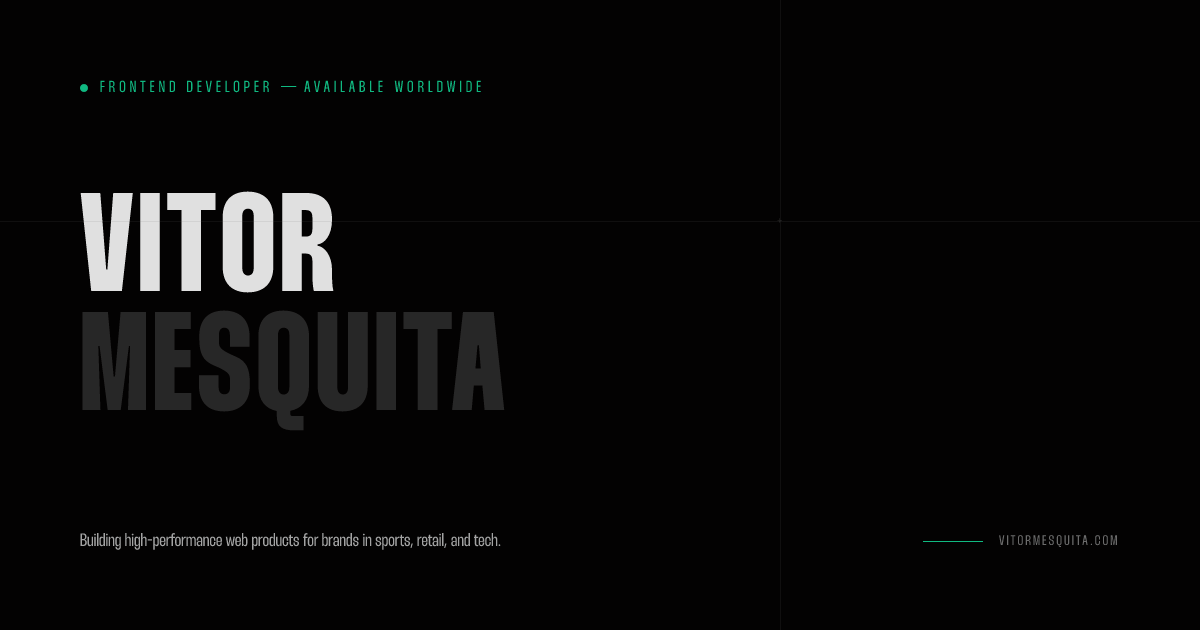
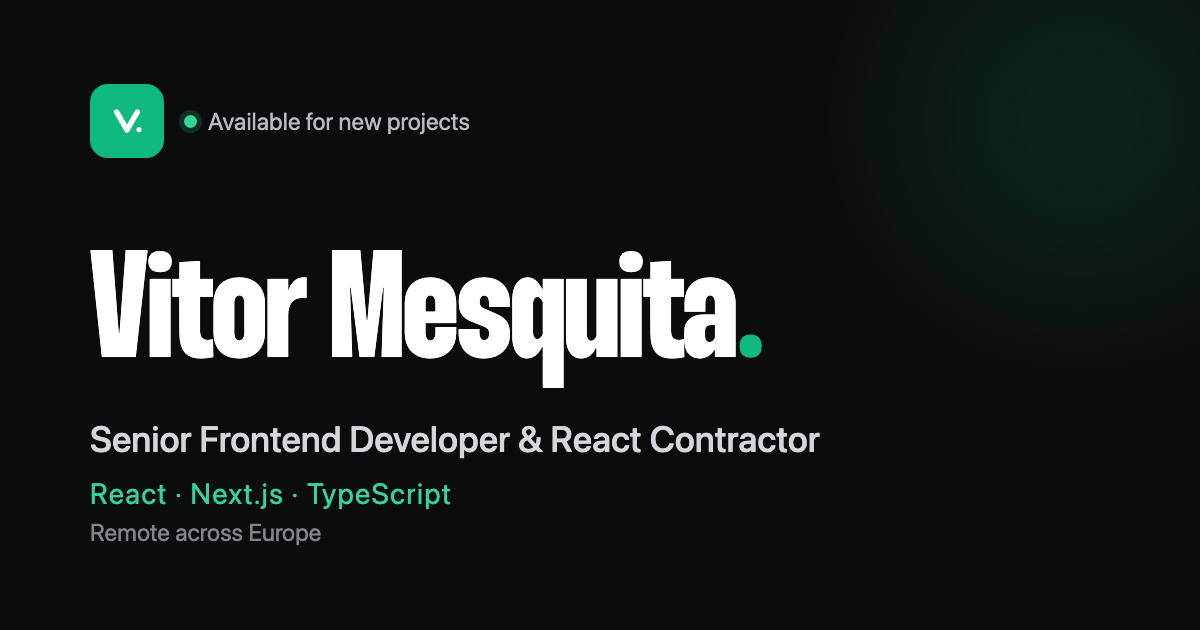
SEO/AEO enrichment + FAQ accordion polish
- FAQ: exclusive accordion (one open at a time); answers stay in the DOM for SEO/AI
- Richer JSON-LD: Person (image, description, email, occupation),
  Organization (description, email, founder); graph cross-linked
- Add public/profile.png headshot for Person.image
- New on-brand OG image (replaces old design)
- Skip-to-content link for accessibility
- Remove all Twitter/X references

diff --git a/src/app/layout.tsx b/src/app/layout.tsx
@@ -90,14 +90,6 @@ export const metadata: Metadata = {
       },
     ],
   },
-  twitter: {
-    card: 'summary_large_image',
-    title: 'Freelance Senior Frontend Developer | React • Next.js • TypeScript',
-    description:
-      'Frontend Contractor helping European product teams build high-performance React, Next.js, and TypeScript products.',
-    images: ['/og-image.png'],
-    creator: '@vitorsm19',
-  },
   alternates: {
     canonical: SITE_URL,
   },
@@ -126,6 +118,12 @@ j=d.createElement(s),dl=l!='dataLayer'?'&l='+l:'';j.async=true;j.src=
         <link rel="apple-touch-icon" href="/apple-touch-icon.png" />
       </head>
       <body className="bg-bg-primary text-text-primary antialiased">
+        <a
+          href="#main"
+          className="sr-only focus:not-sr-only focus:fixed focus:left-4 focus:top-4 focus:z-[100] focus:rounded-full focus:bg-accent focus:px-4 focus:py-2 focus:text-sm focus:font-medium focus:text-white"
+        >
+          Skip to content
+        </a>
         {/* Google Tag Manager (noscript) */}
         <noscript>
           <iframe
@@ -159,8 +157,13 @@ j=d.createElement(s),dl=l!='dataLayer'?'&l='+l:'';j.async=true;j.src=
                   '@type': 'Person',
                   '@id': `${SITE_URL}/#person`,
                   name: 'Vitor Mesquita',
-                  jobTitle: 'Freelance Senior Frontend Developer / Frontend Contractor',
+                  jobTitle: 'Senior Frontend Developer & React Contractor',
+                  description:
+                    'Freelance senior frontend developer with 6+ years building high-performance React, Next.js, and TypeScript products for global product teams. Remote across Europe.',
                   url: SITE_URL,
+                  image: `${SITE_URL}/profile.png`,
+                  email: 'vitormesquita190902@gmail.com',
+                  knowsLanguage: ['English'],
                   address: {
                     '@type': 'PostalAddress',
                     addressLocality: 'Barcelona',
@@ -170,6 +173,13 @@ j=d.createElement(s),dl=l!='dataLayer'?'&l='+l:'';j.async=true;j.src=
                     'https://github.com/vitorsm19/',
                     'https://www.linkedin.com/in/vitormesquita19/',
                   ],
+                  hasOccupation: {
+                    '@type': 'Occupation',
+                    name: 'Frontend Developer',
+                    occupationLocation: { '@type': 'Place', name: 'Europe' },
+                    skills:
+                      'React, Next.js, TypeScript, frontend architecture, design systems, performance optimization, accessibility, testing',
+                  },
                   knowsAbout: [
                     'React',
                     'Next.js',
@@ -187,10 +197,7 @@ j=d.createElement(s),dl=l!='dataLayer'?'&l='+l:'';j.async=true;j.src=
                     'Server-Side Rendering',
                     'Core Web Vitals',
                   ],
-                  worksFor: {
-                    '@type': 'Organization',
-                    name: 'Freelance / Independent Contractor',
-                  },
+                  worksFor: { '@id': `${SITE_URL}/#organization` },
                 },
                 {
                   '@type': 'ProfessionalService',
@@ -264,6 +271,10 @@ j=d.createElement(s),dl=l!='dataLayer'?'&l='+l:'';j.async=true;j.src=
                   '@id': `${SITE_URL}/#organization`,
                   name: 'Vitor Mesquita',
                   url: SITE_URL,
+                  description:
+                    'Independent frontend contracting: senior React, Next.js, and TypeScript delivery for European product teams.',
+                  email: 'vitormesquita190902@gmail.com',
+                  founder: { '@id': `${SITE_URL}/#person` },
                   logo: {
                     '@type': 'ImageObject',
                     url: `${SITE_URL}/icon-512.png`,

diff --git a/src/components/sections/Faq.tsx b/src/components/sections/Faq.tsx
@@ -1,10 +1,13 @@
 'use client'
 
+import { useState } from 'react'
 import { Reveal, Stagger, StaggerItem } from '@/components/motion/Reveal'
 import { SectionTag } from '@/components/ui/SectionTag'
 import { faqs } from '@/data/faq'
 
 export function Faq() {
+  const [open, setOpen] = useState<number | null>(null)
+
   return (
     <div className="mx-auto max-w-3xl px-6 lg:px-12">
       <Reveal className="rule pt-6">
@@ -18,10 +21,16 @@ export function Faq() {
       </Reveal>
 
       <Stagger className="mt-10 lg:mt-14" gap={0.07}>
-        {faqs.map((f) => (
+        {faqs.map((f, i) => (
           <StaggerItem key={f.q}>
-            <details className="group rule py-5">
-              <summary className="flex cursor-pointer list-none items-center justify-between gap-6 [&::-webkit-details-marker]:hidden">
+            <details open={open === i} className="group rule py-5">
+              <summary
+                onClick={(e) => {
+                  e.preventDefault()
+                  setOpen(open === i ? null : i)
+                }}
+                className="flex cursor-pointer list-none items-center justify-between gap-6 [&::-webkit-details-marker]:hidden"
+              >
                 <span className="text-lg font-semibold text-text-heading lg:text-xl">{f.q}</span>
                 <span className="shrink-0 text-2xl font-light leading-none text-text-muted transition-transform duration-300 group-open:rotate-45">
                   +

diff --git a/src/app/page.tsx b/src/app/page.tsx
@@ -15,7 +15,7 @@ export default function Home() {
   return (
     <>
       <Navbar />
-      <main className="overflow-x-clip">
+      <main id="main" className="overflow-x-clip">
         <Hero />
 
         <section id="about" aria-label="About" className="py-24 lg:py-36">
